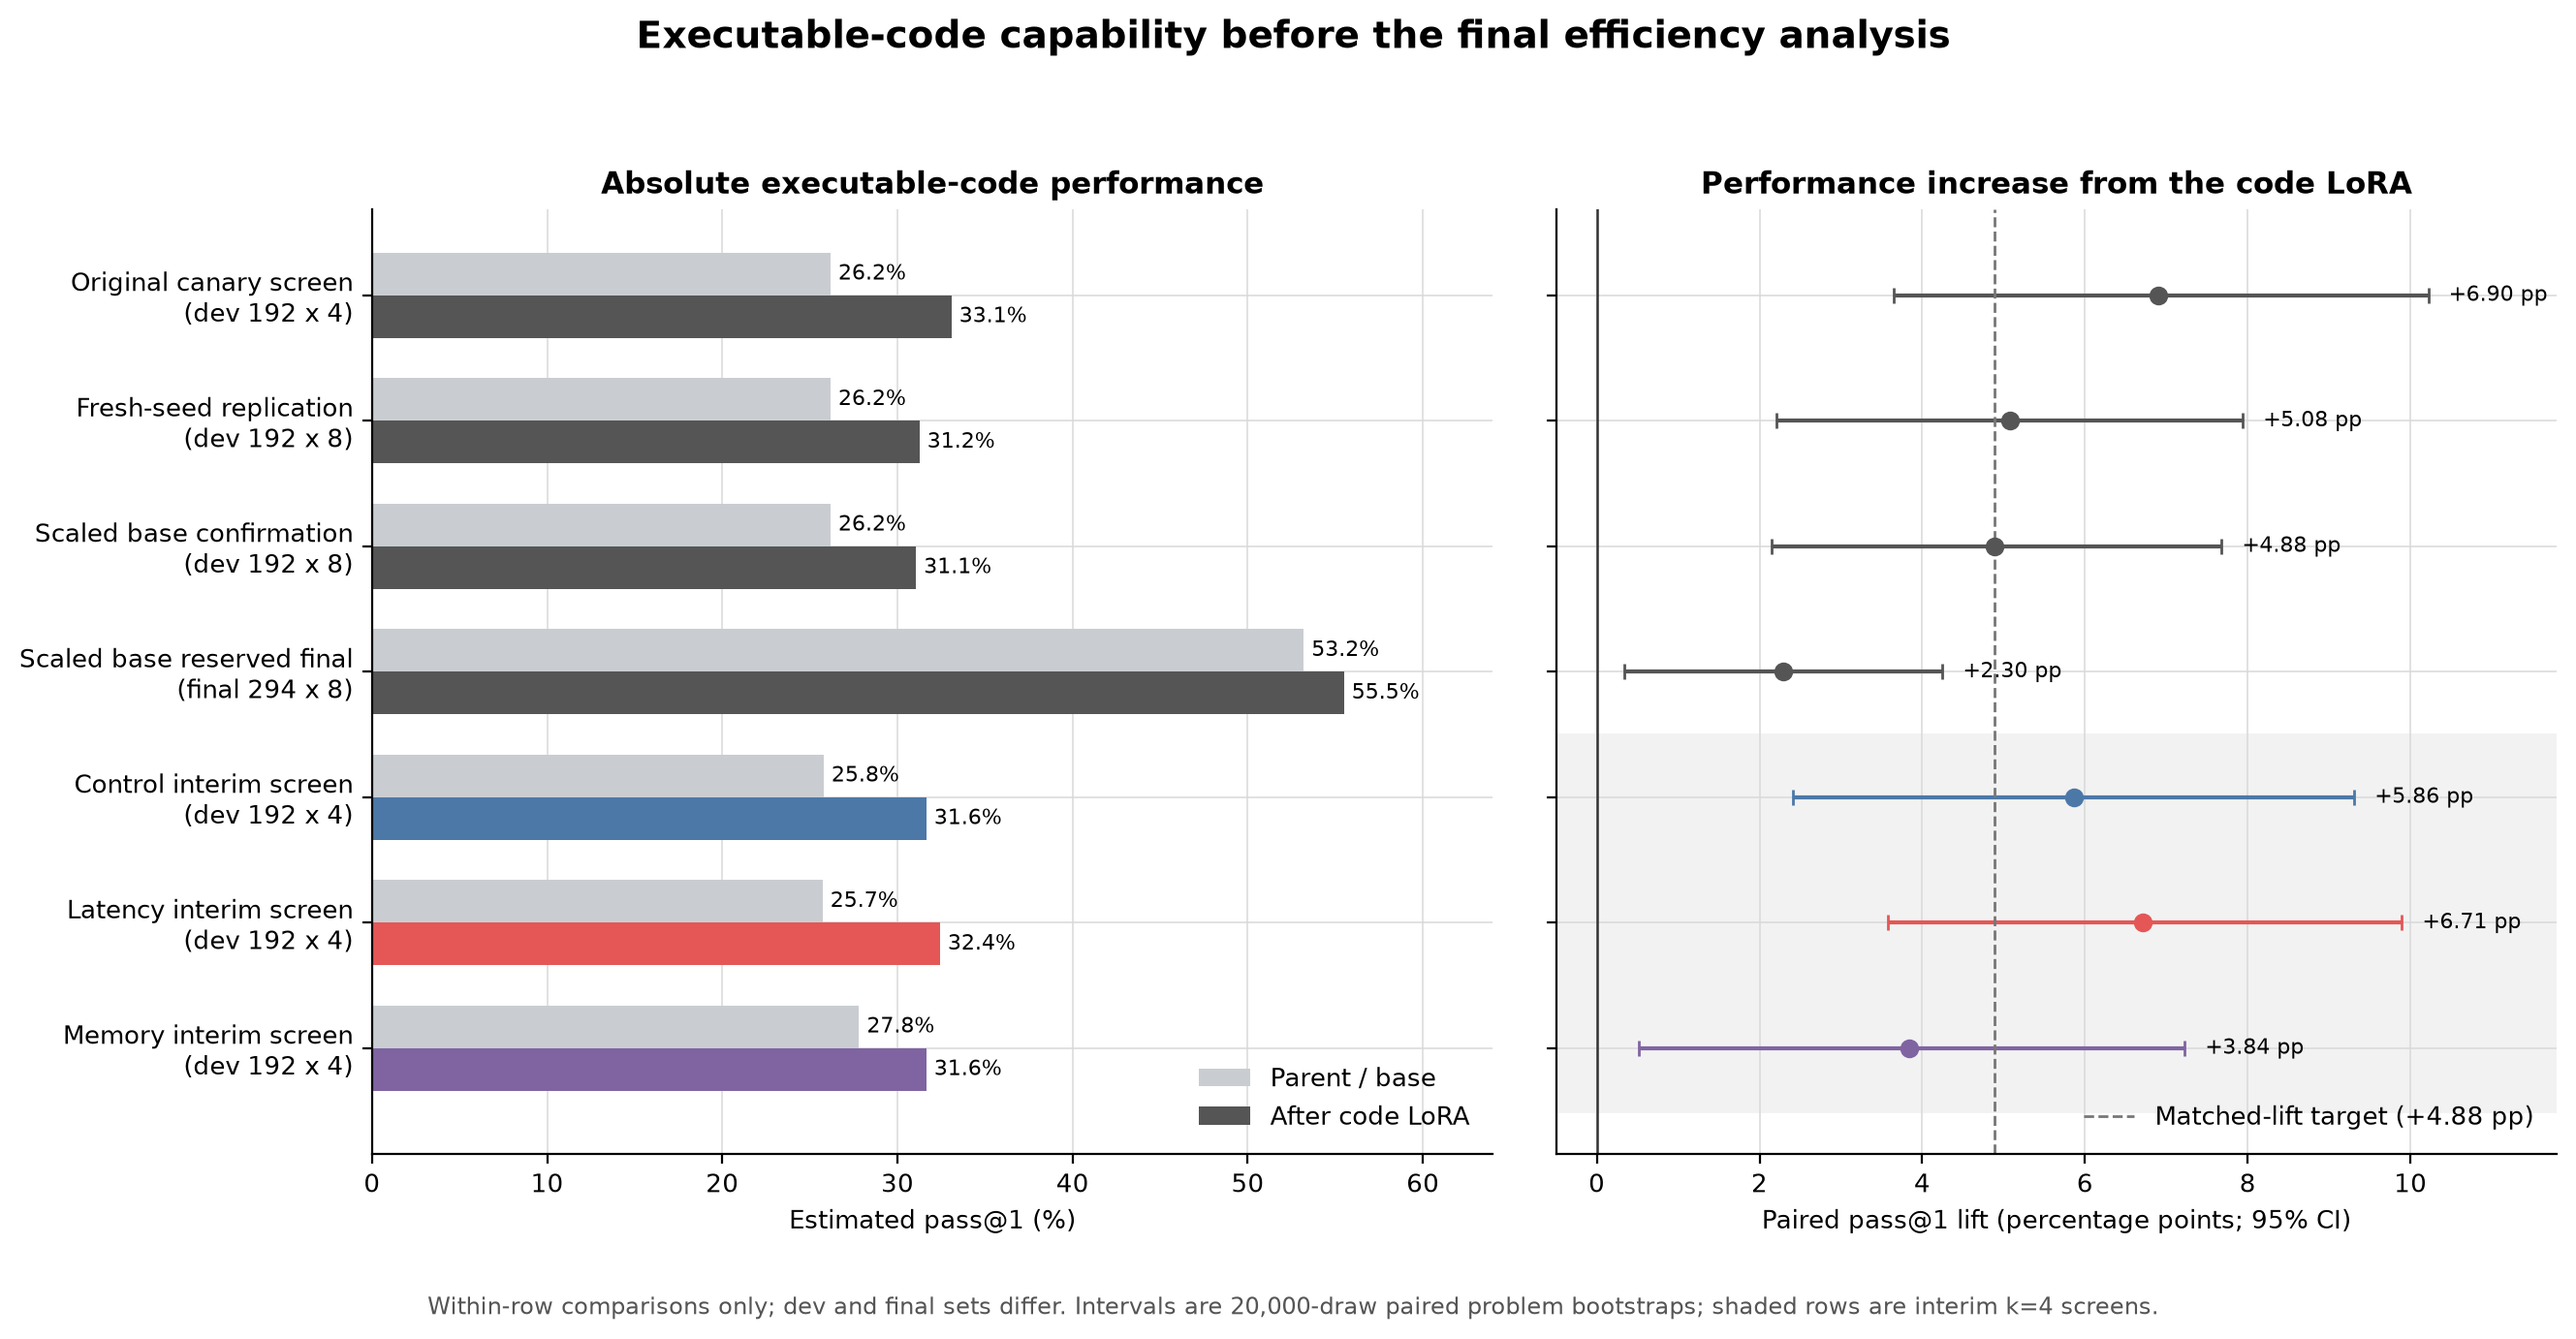
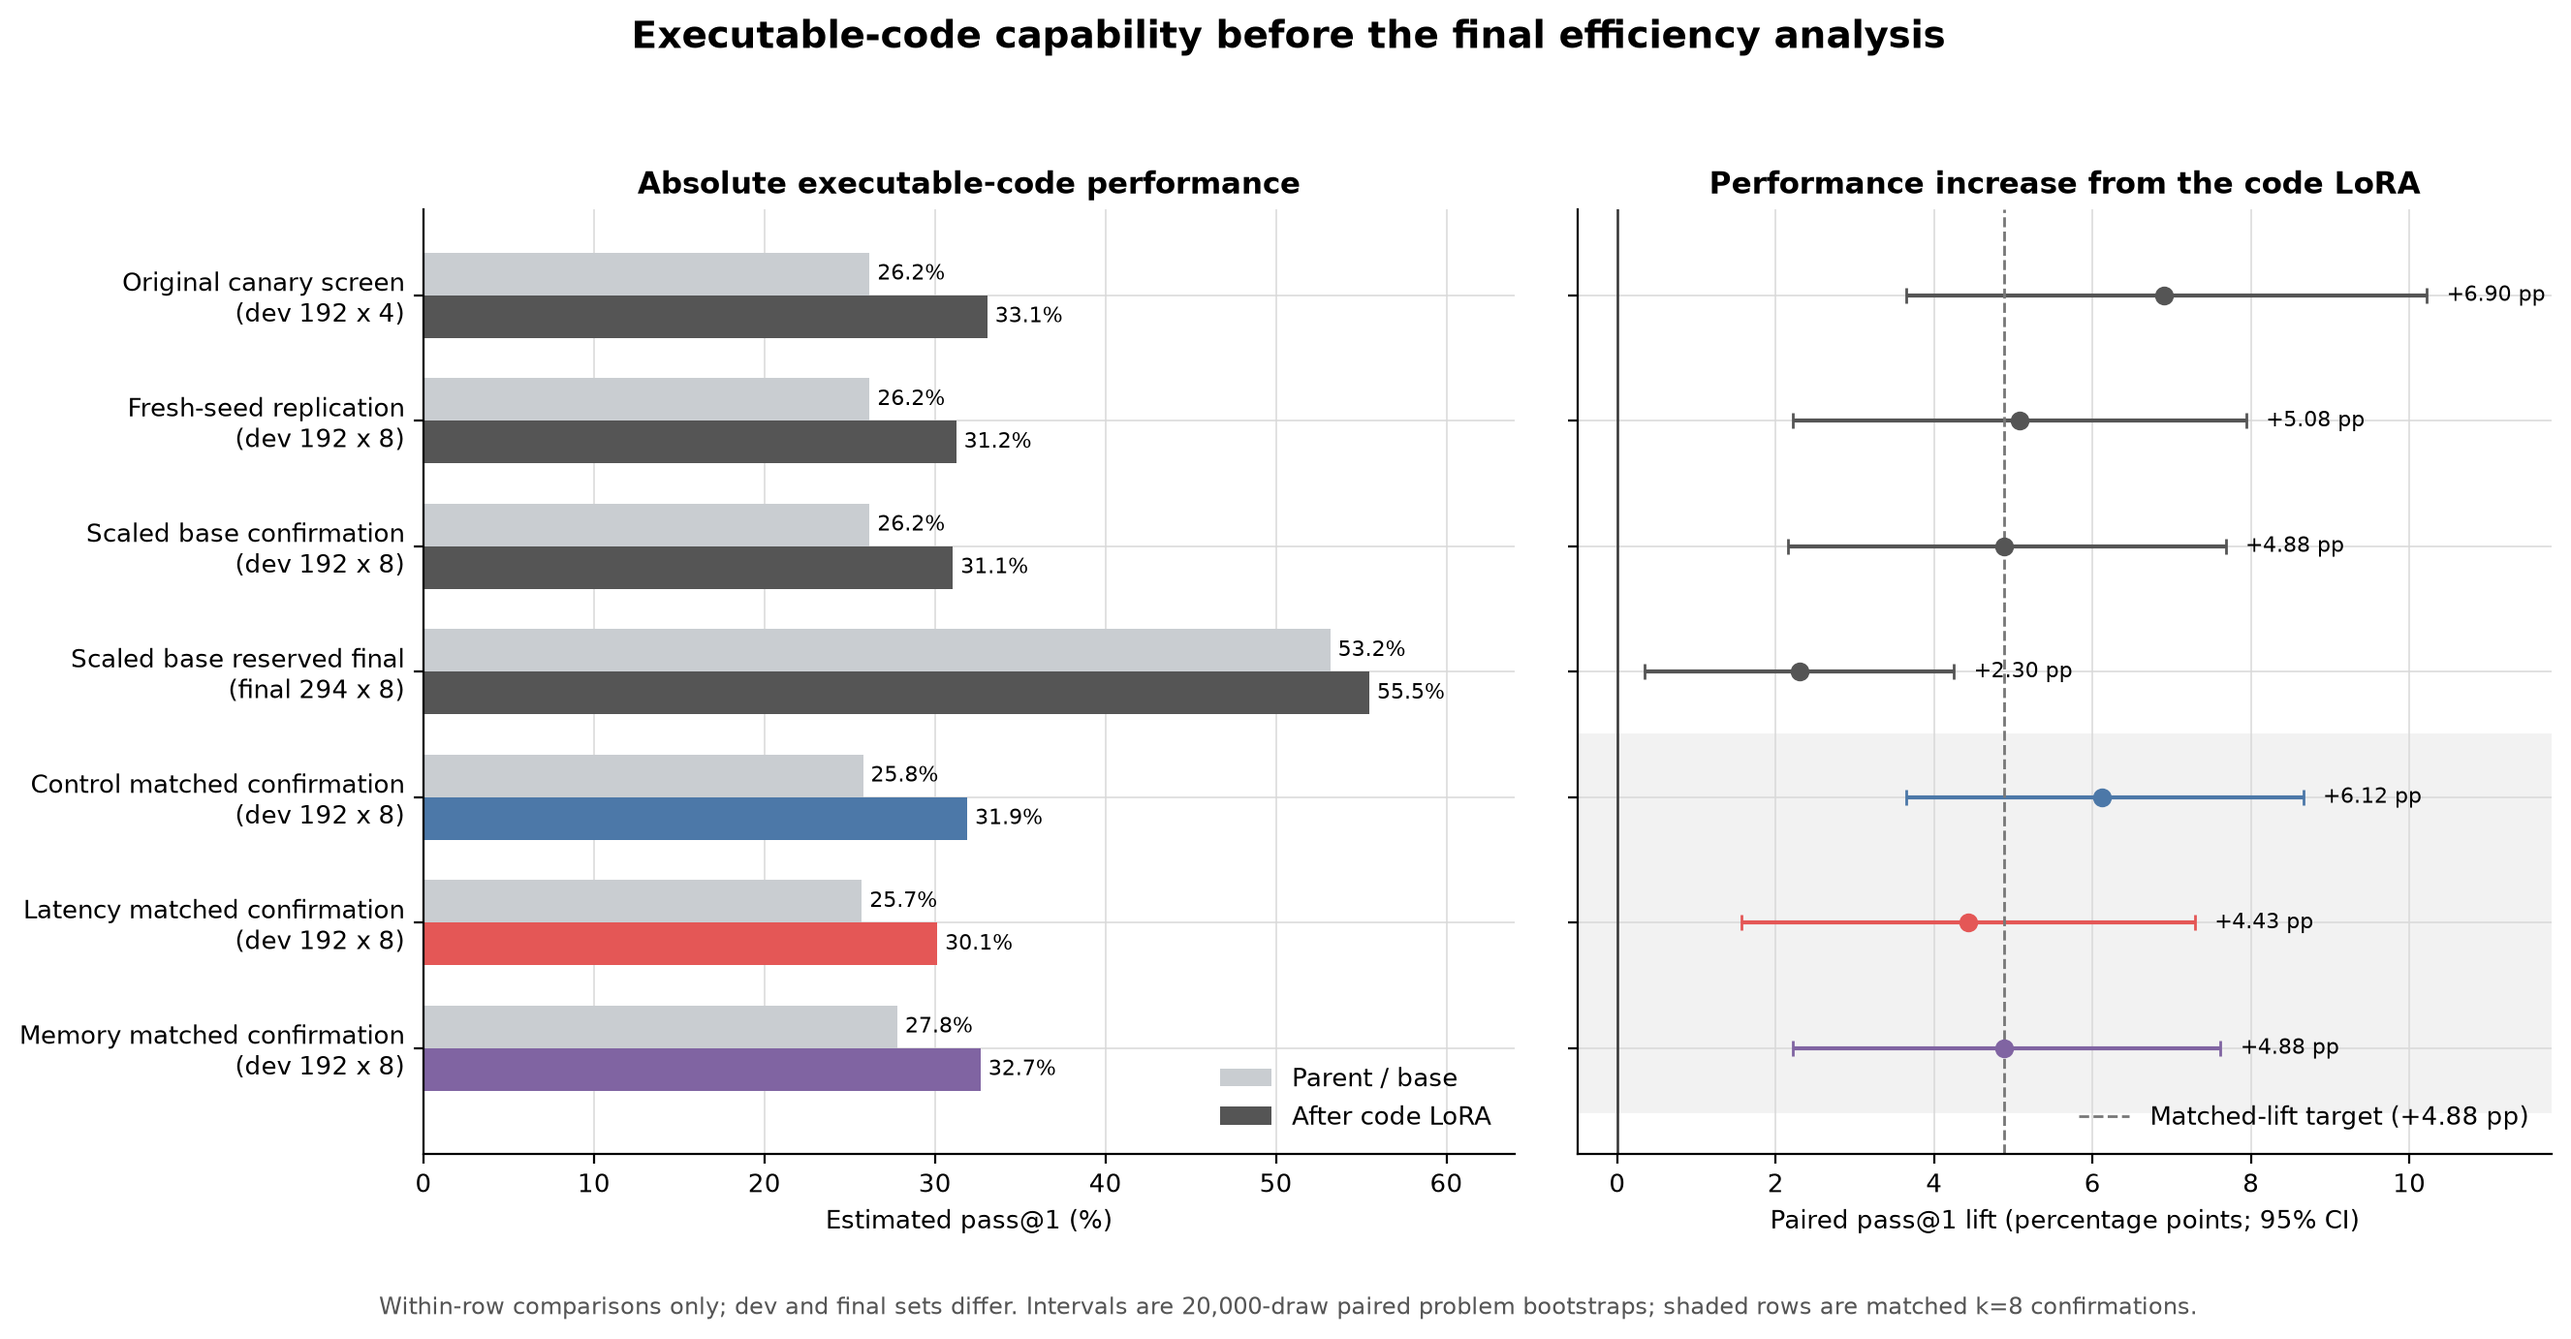
Report matched-lift confirmations

diff --git a/experiments/prior_latmem/gemma4_e4b_transfer_followup_20260806/plot_report.py b/experiments/prior_latmem/gemma4_e4b_transfer_followup_20260806/plot_report.py
@@ -5,7 +5,7 @@ files under the 2026-08-06 run root.  SDF and re-instruction are plotted at
 every optimizer update.  The 256-update code traces are shown as non-overlapping
 16-update means so that four nearly identical curves remain legible.  Coding
 performance values are the paired problem-bootstrap summaries quoted in the
-report; the final three rows are provisional k=4 screens.
+report; the final three rows are the matched k=8 SDF-parent confirmations.
 
 Run from the checkout root with::
 
@@ -248,27 +248,27 @@ PERFORMANCE = [
         "color": "base",
     },
     {
-        "label": "Control interim screen\n(dev 192 x 4)",
+        "label": "Control matched confirmation\n(dev 192 x 8)",
         "before": 25.78125,
-        "after": 31.640625,
-        "lift": 5.859375,
-        "ci": (2.4088542, 9.3098958),
+        "after": 31.9010417,
+        "lift": 6.1197917,
+        "ci": (3.6458333, 8.6588542),
         "color": "control",
     },
     {
-        "label": "Latency interim screen\n(dev 192 x 4)",
+        "label": "Latency matched confirmation\n(dev 192 x 8)",
         "before": 25.7161458,
-        "after": 32.421875,
-        "lift": 6.7057292,
-        "ci": (3.5807292, 9.8958333),
+        "after": 30.1432292,
+        "lift": 4.4270833,
+        "ci": (1.5625, 7.2916667),
         "color": "latency",
     },
     {
-        "label": "Memory interim screen\n(dev 192 x 4)",
+        "label": "Memory matched confirmation\n(dev 192 x 8)",
         "before": 27.7994792,
-        "after": 31.640625,
-        "lift": 3.8411458,
-        "ci": (0.5208333, 7.2265625),
+        "after": 32.6822917,
+        "lift": 4.8828125,
+        "ci": (2.2135417, 7.6171875),
         "color": "memory",
     },
 ]
@@ -453,7 +453,7 @@ def plot_coding_performance() -> None:
     fig.text(
         0.5,
         0.012,
-        "Within-row comparisons only; dev and final sets differ. Intervals are 20,000-draw paired problem bootstraps; shaded rows are interim k=4 screens.",
+        "Within-row comparisons only; dev and final sets differ. Intervals are 20,000-draw paired problem bootstraps; shaded rows are matched k=8 confirmations.",
         ha="center",
         fontsize=8.5,
         color="#555555",

diff --git a/experiments/prior_latmem/gemma4_e4b_transfer_followup_20260806/README.md b/experiments/prior_latmem/gemma4_e4b_transfer_followup_20260806/README.md
@@ -24,7 +24,7 @@ valid GPU artifact is checksum-verified after upload.
 
 This report is live while the final SDF-parent comparison runs. Results in
 this section are frozen, remotely persisted interim results; they are not the
-reserved-final efficiency verdict. As of the first matched-lift screen:
+reserved-final efficiency verdict. As of the matched-lift confirmations:
 
 - the untouched-base reference code LoRA has replicated, passed its scaled
   development confirmation, and passed the once-only alias-clean final gate;
@@ -34,13 +34,15 @@ reserved-final efficiency verdict. As of the first matched-lift screen:
 - all three downstream code LoRAs completed 256 finite updates and persisted
   checkpoints 32/64/128/192/256; and
 - all three step-64 k=4 screens produced a positive held-out coding lift inside
-  the predeclared matching band. Step 64 was therefore selected independently
-  for all three parents, and the k=8 confirmations are in progress.
+  the predeclared matching band, so step 64 was selected independently for all
+  three parents; and
+- all three fresh k=8 confirmations then passed the lift, positive-CI, health,
+  and solved@8 gates. Their reserved-final parent baselines are in progress.
 
 The latency/RSS analysis policy was frozen at `2026-08-06T19:18:22Z`, before
-any of those three code-screen results were read. It authorizes a headline
-efficiency comparison only if all three confirmations match and all three
-arms consequently open the same reserved final set.
+any of those three code-screen results were read. The confirmation condition
+is now satisfied; a headline efficiency comparison still requires all three
+arms to complete and verify the same reserved final set.
 
 ## Experimental contrast: four matched coding arms
 
@@ -203,8 +205,8 @@ budget on the path actually selected so far:
 |---|---:|---:|---:|---|
 | Parent development baseline | 192 | 8 | 1,536 | Freeze pre-LoRA capability; complete |
 | Step-64 development screen | 192 | 4 | 768 | Cheap directional checkpoint selection; complete, and step 64 selected in every arm |
-| Selected-checkpoint confirmation | 192 | 8 | 1,536 | Test matched lift, positive CI, health, and solved@8 with fresh draws; in progress |
-| Parent reserved-final baseline | 294 | 8 | 2,352 | Opened only after a matched confirmation |
+| Selected-checkpoint confirmation | 192 | 8 | 1,536 | Test matched lift, positive CI, health, and solved@8 with fresh draws; complete and matched in all arms |
+| Parent reserved-final baseline | 294 | 8 | 2,352 | Opened after the matched confirmation; in progress |
 | Selected adapter on reserved final | 294 | 8 | 2,352 | Once-only final capability result and source rows for efficiency measurement |
 | **Total on the current first-checkpoint path** |  |  | **8,544 per arm; 25,632 across three arms** | Excludes earlier reference-arm development and target-discovery sampling |
 
@@ -224,14 +226,14 @@ being matched to.
 
 ### Conditional program latency and peak-RSS evaluation
 
-If, and only if, all three confirmations match and all three arms reach the
-same 294-problem final set, the efficiency runner restores the 2,352 scored
-final samples per arm. It rechecks correctness, deduplicates identical sources
-within arm and problem, and measures each unique correct program in three
-fresh subprocesses under the same synthesized workload, with an 8-second
-timeout and 1,024-MB memory limit. Runs are SHA-sorted and arm-interleaved in
-blocks of 200 on one otherwise quiet CPU host; every block records a local
-process-RSS baseline and fixed-workload latency calibration.
+All three confirmations now match. Once all three arms also complete and
+verify the same 294-problem final set, the efficiency runner restores the
+2,352 scored final samples per arm. It rechecks correctness, deduplicates
+identical sources within arm and problem, and measures each unique correct
+program in three fresh subprocesses under the same synthesized workload, with
+an 8-second timeout and 1,024-MB memory limit. Runs are SHA-sorted and
+arm-interleaved in blocks of 200 on one otherwise quiet CPU host; every block
+records a local process-RSS baseline and fixed-workload latency calibration.
 
 The primary latency-versus-memory contrast is paired by
 `(problem_id, sample_index)` and includes a draw only when both programs are
@@ -259,13 +261,13 @@ the synthetic directional corpora.
 
 ![Executable-code performance and paired pass@1 lift](figures/coding_performance.png)
 
-The shaded rows are the interim four-draw SDF-parent screens; the preceding
-rows are completed base/reference evidence. Error bars are paired
+The shaded rows are the completed eight-draw SDF-parent confirmations; the
+preceding rows are base/reference evidence. Error bars are paired
 problem-bootstrap 95% intervals. Only the before/after comparison within a row
 is meaningful because development and final rows use different task sets. The
 figures can be regenerated from the frozen as-run values in `plot_report.py`;
-final confirmation and efficiency panels will be added when those remotely
-verified artifacts exist.
+final-set and efficiency panels will be added when those remotely verified
+artifacts exist.
 
 ### Development of the common code intervention
 
@@ -319,10 +321,23 @@ were also nearly identical (6,669 control, 6,633 latency, 6,679 memory tokens),
 so a temporary progress-bar lag for latency/memory was completion-order tail
 noise rather than evidence of slower hardware or systematically longer output.
 
-These k=4 results authorize but do not replace the k=8 confirmation. The final
-report will add confirmation pass@1/pass@4/pass@8, solved@8, final-set coding
-results, paired correctness transitions, and the predeclared conditional
-latency/RSS analysis once those artifacts are complete and remotely verified.
+The selected checkpoints then received eight fresh samples on every
+development problem. All three confirmations matched the reference +4.88 pp
+lift within the frozen +/-2.50 pp band, with positive pass@1 confidence bounds,
+improved adverse-output rates, and no solved@8 loss:
+
+| Parent + step-64 code LoRA | Parent pass@1 -> post pass@1 | Lift (95% CI) | Pass@4 delta (95% CI) | Pass@8 delta (95% CI) | Solved@8 | Adverse delta | Decision |
+|---|---:|---:|---:|---:|---:|---:|---|
+| Control | 25.78% -> 31.90% | +6.12 pp (+3.65, +8.66) | +3.52 pp (+0.15, +6.86) | +2.08 pp (-2.60, +6.77) | 122 -> 126 | -2.93 pp | Matched |
+| Latency | 25.72% -> 30.14% | +4.43 pp (+1.56, +7.29) | +3.68 pp (-0.42, +7.83) | +4.17 pp (-1.04, +9.38) | 114 -> 122 | -0.65 pp | Matched |
+| Memory | 27.80% -> 32.68% | +4.88 pp (+2.21, +7.62) | +3.20 pp (-0.42, +6.86) | +3.13 pp (-2.60, +8.85) | 121 -> 127 | -1.50 pp | Matched |
+
+This is the capability-matching result needed to interpret the eventual
+latency-versus-memory comparison. It does not itself show an efficiency
+preference. All three arms have now opened their once-only reserved-final
+parent baseline; the final report will add the paired final coding results,
+correctness transitions, and predeclared conditional latency/RSS analysis once
+those artifacts are complete and remotely verified.
 
 ## Stage-1 frozen replication
 
